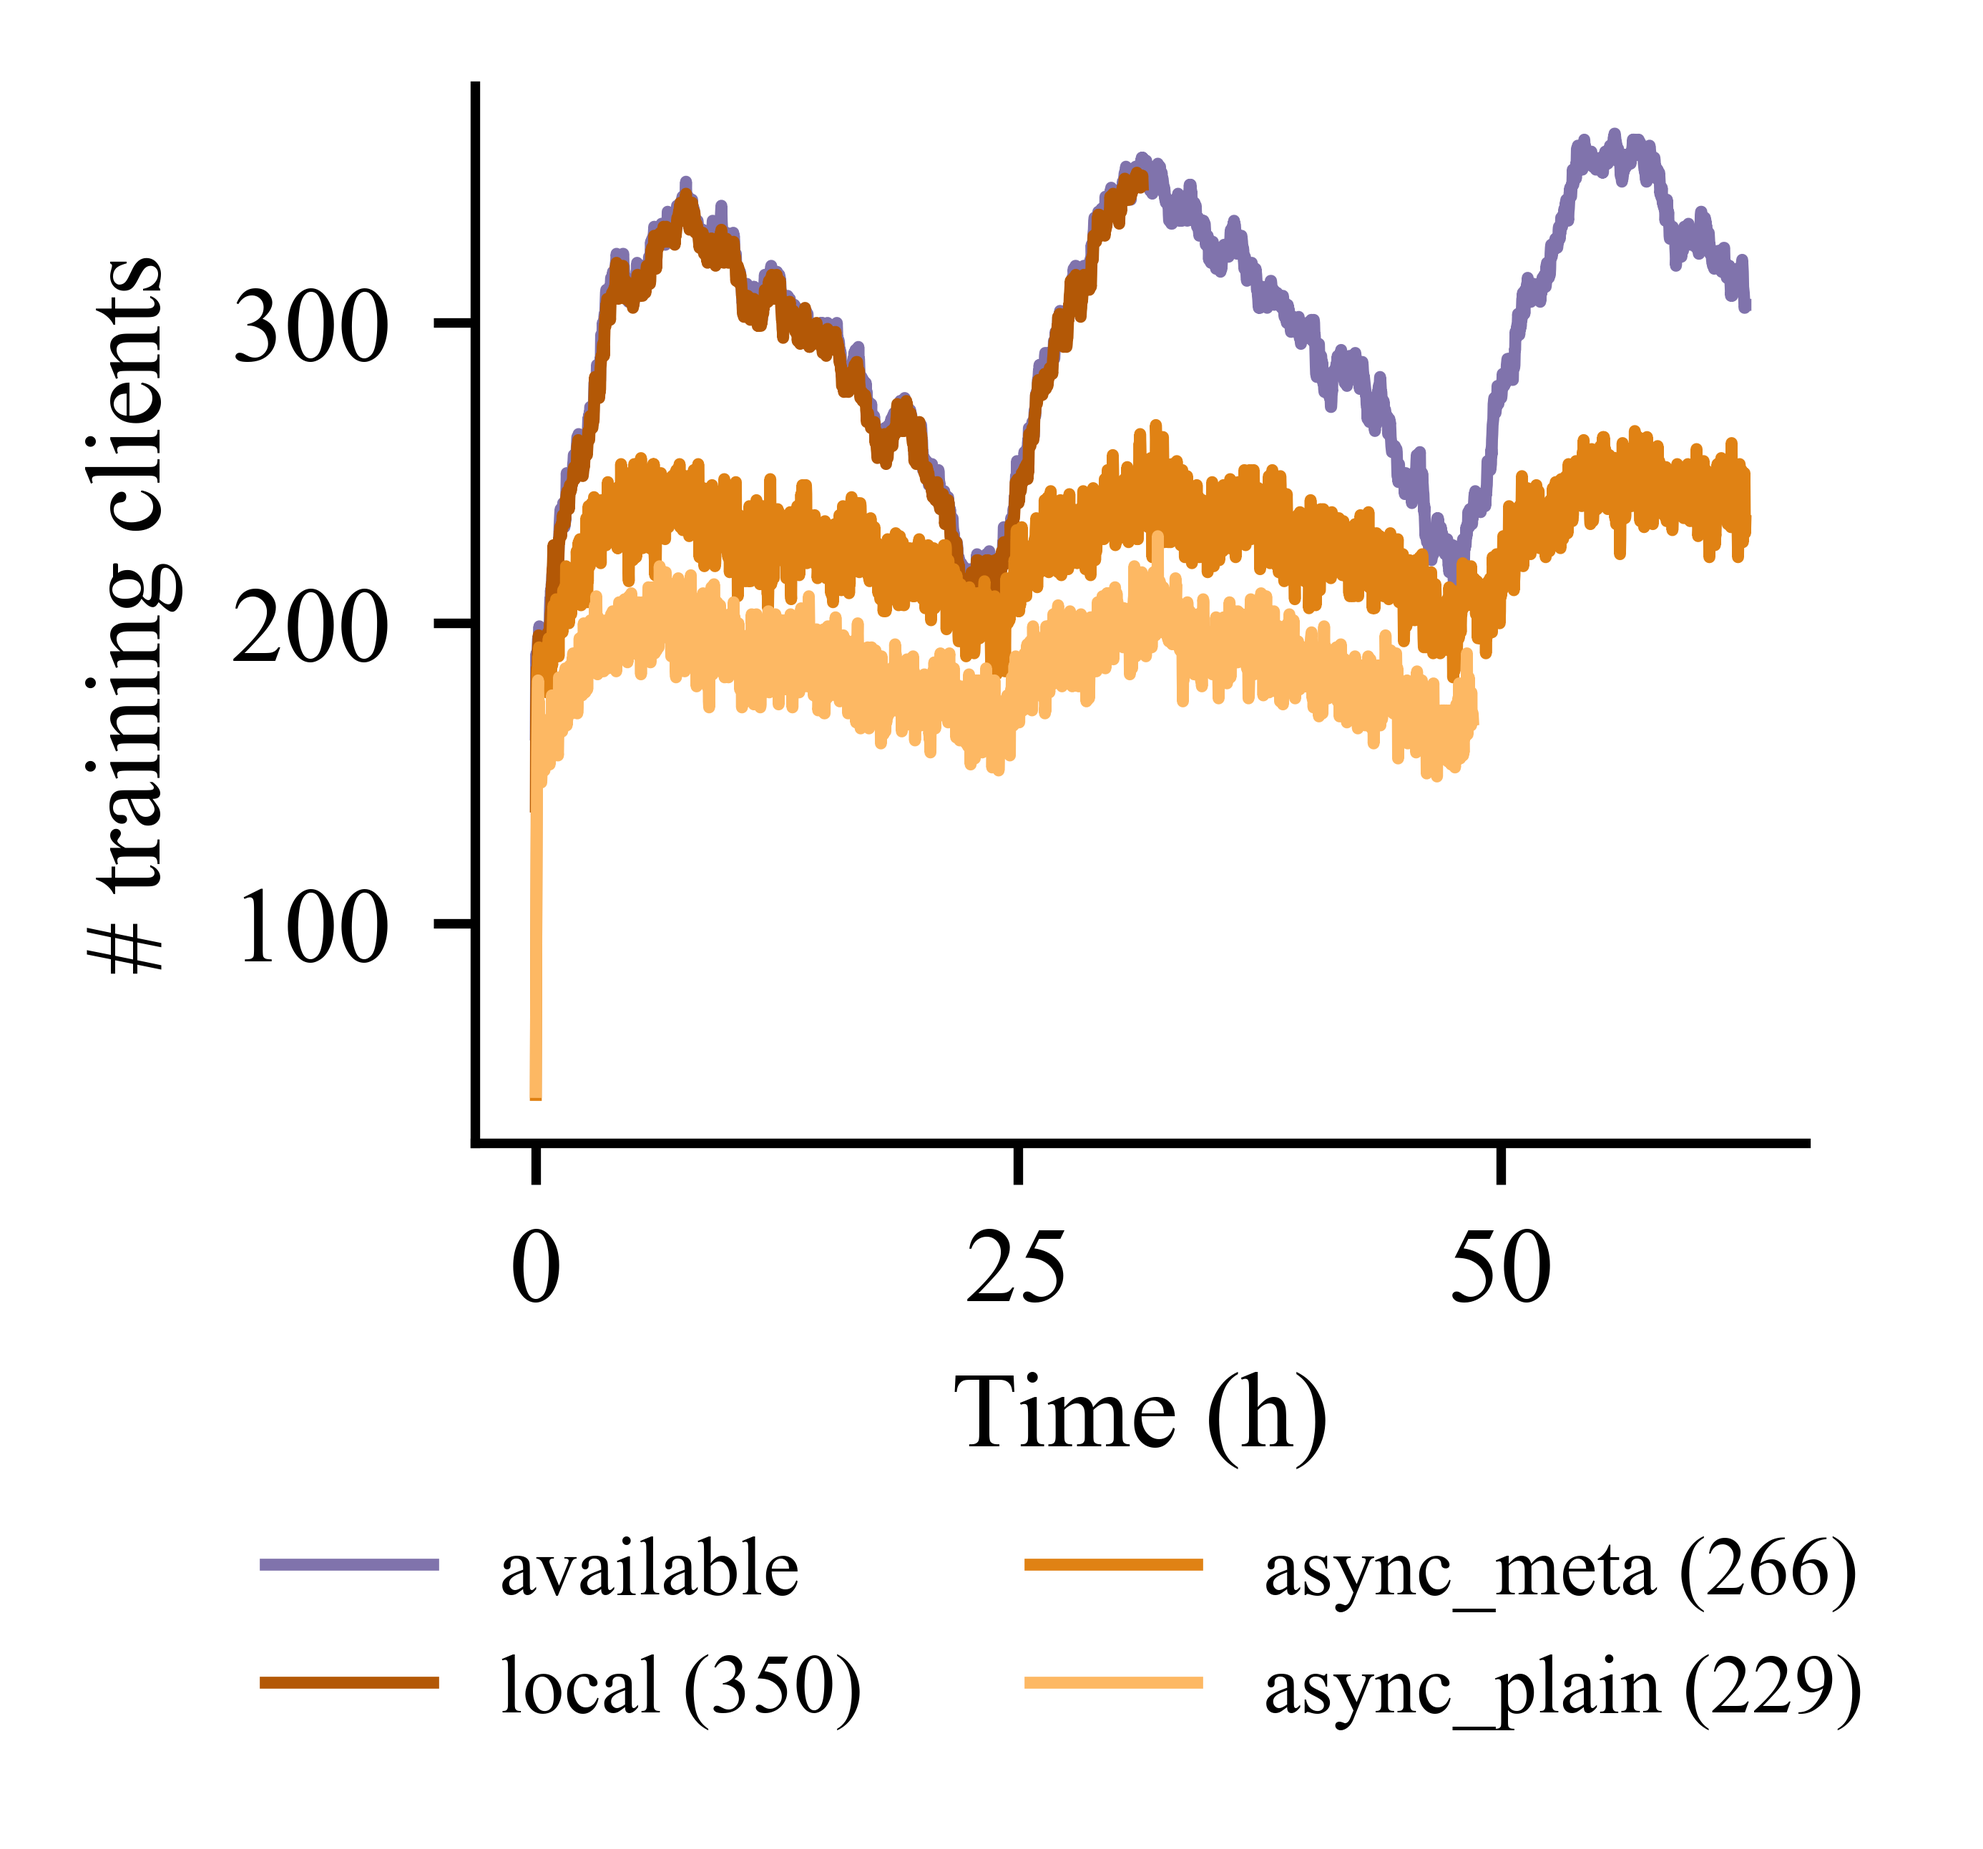
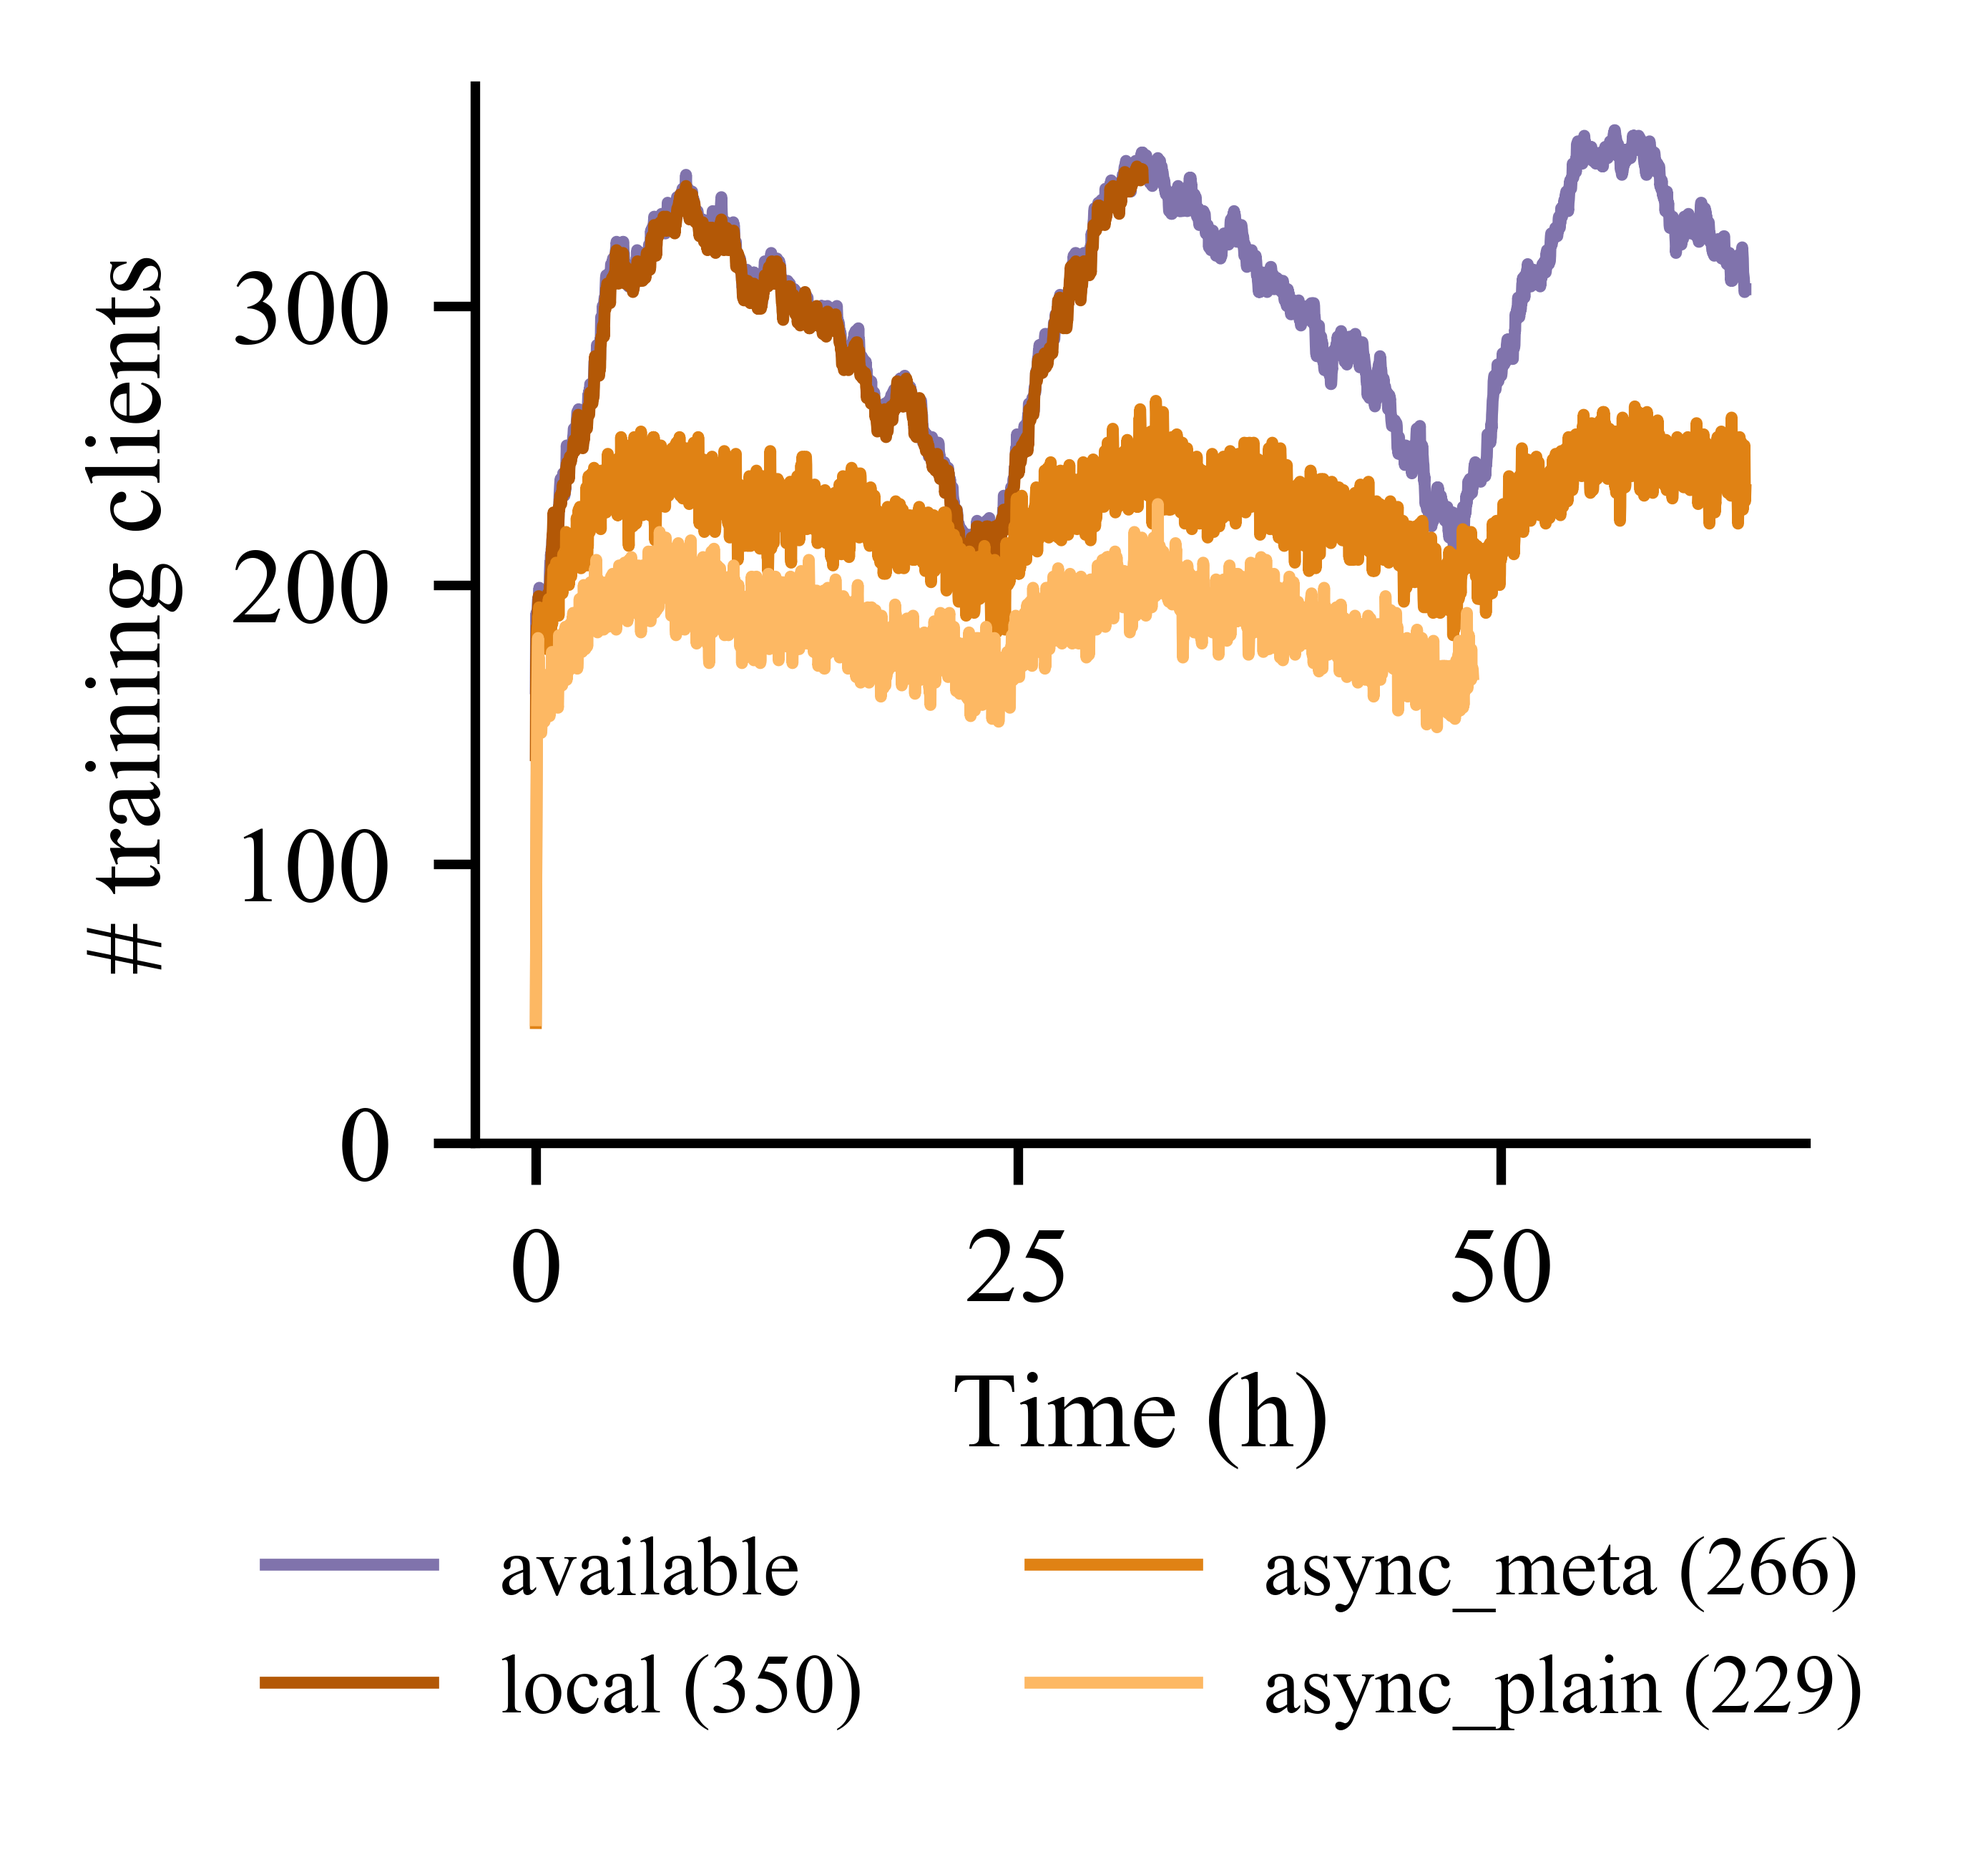
ns

diff --git a/core/evals/my_perf_4.py b/core/evals/my_perf_4.py
@@ -50,6 +50,7 @@ def plot_line(datas, xs, linelabels=None, label=None, y_label="CDF", name="my_pl
 
     ax.set_ylabel(y_label, fontsize=_fontsize)
     ax.set_xlabel(label, fontsize=_fontsize)
+    ax.set_ylim(0)
     plt.plot()
     plt.savefig(name, bbox_inches='tight')
 
